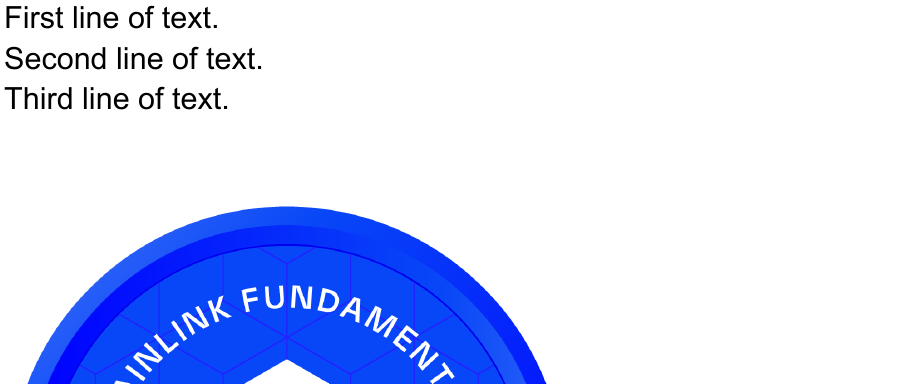
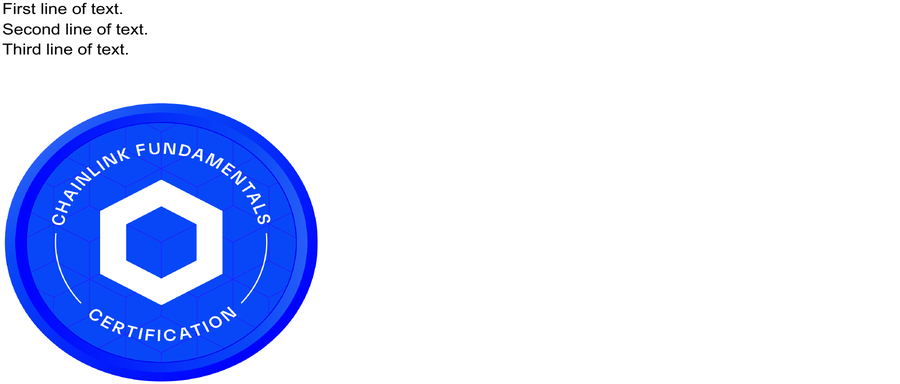
image

Changed region(s): [[0.0, 0.2188, 0.6222, 1.0], [0.0, 0.0, 0.28, 0.1875]]

diff --git a/file_converter.py b/file_converter.py
@@ -7,7 +7,7 @@ def convert_pdf_to_jpg(pdf_path, output_path):
     image_paths = []
 
     for i, image in enumerate(images):
-        cropped_image = image.crop((0, 0, 900, 384))
+        cropped_image = image.crop((0, 0, 1600, 768))
         resized_image = cropped_image.resize((900, 384), Image.Resampling.LANCZOS)
         resized_image.save(output_path, 'PNG')
         image_paths.append(output_path)
